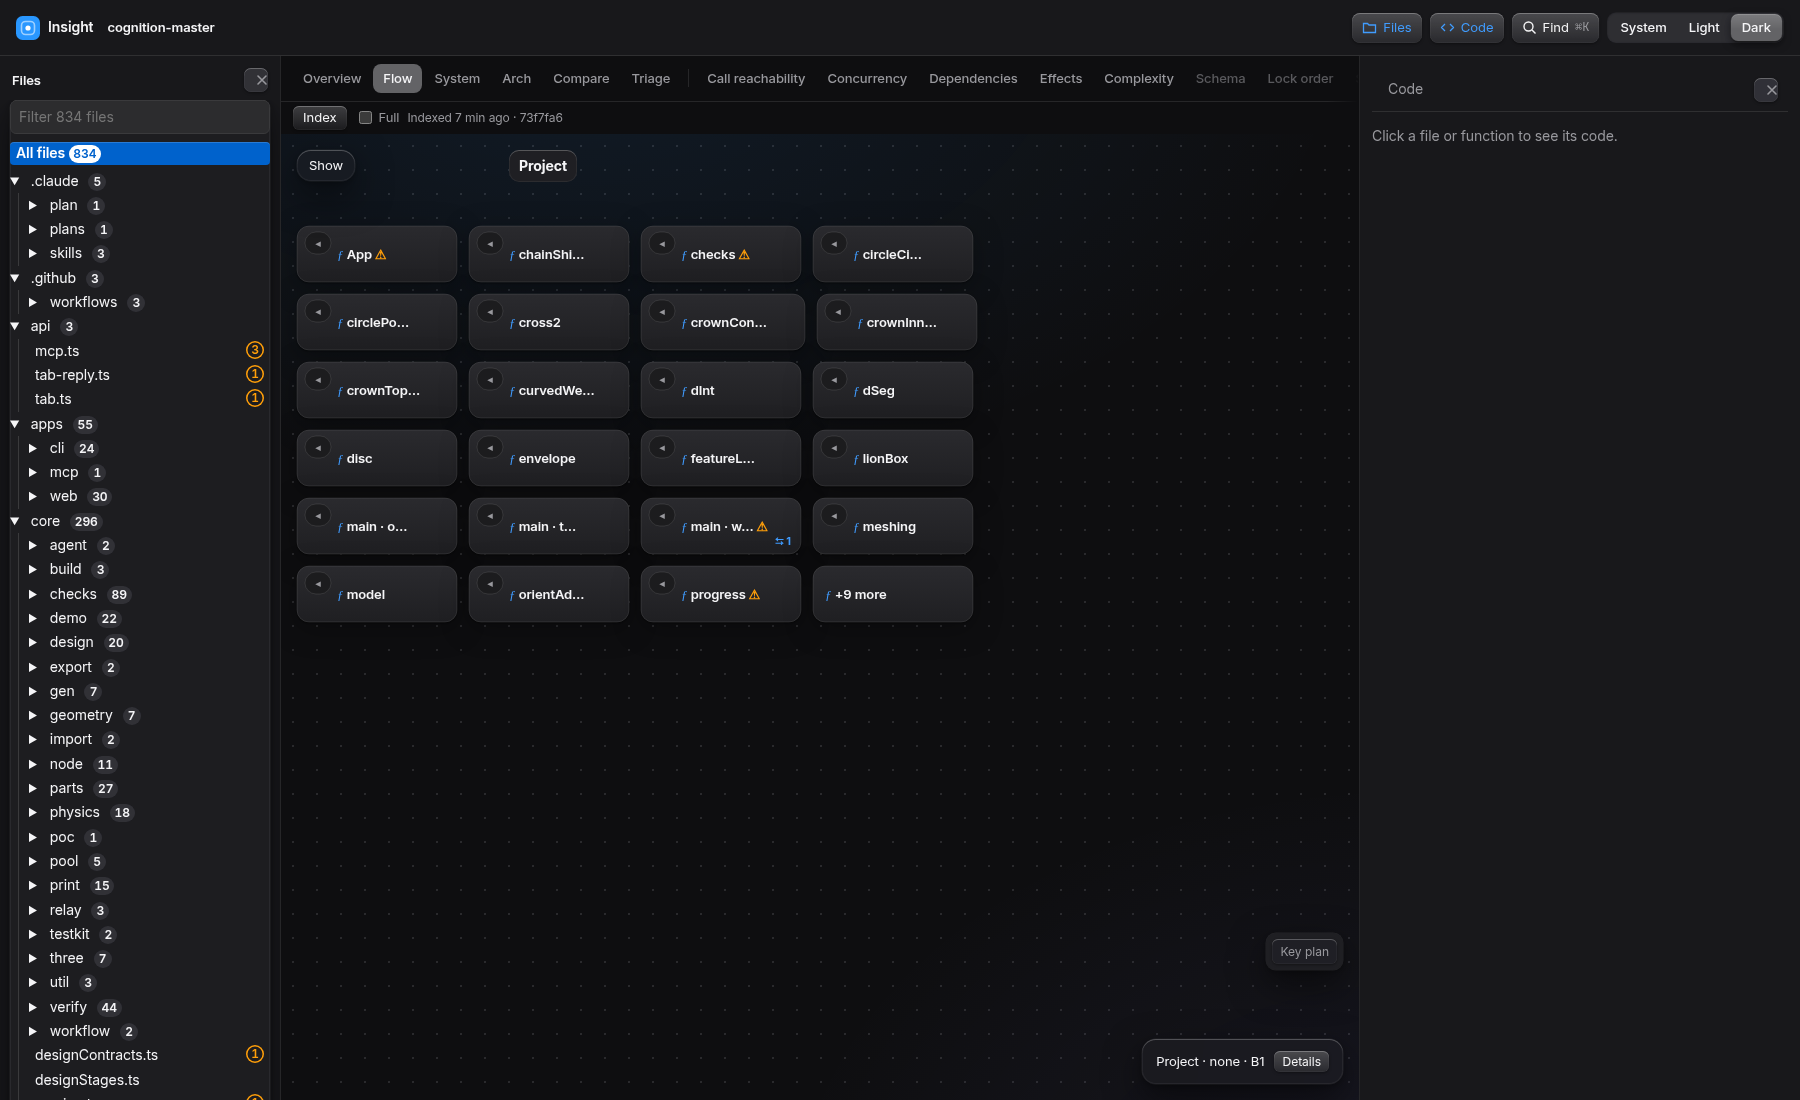
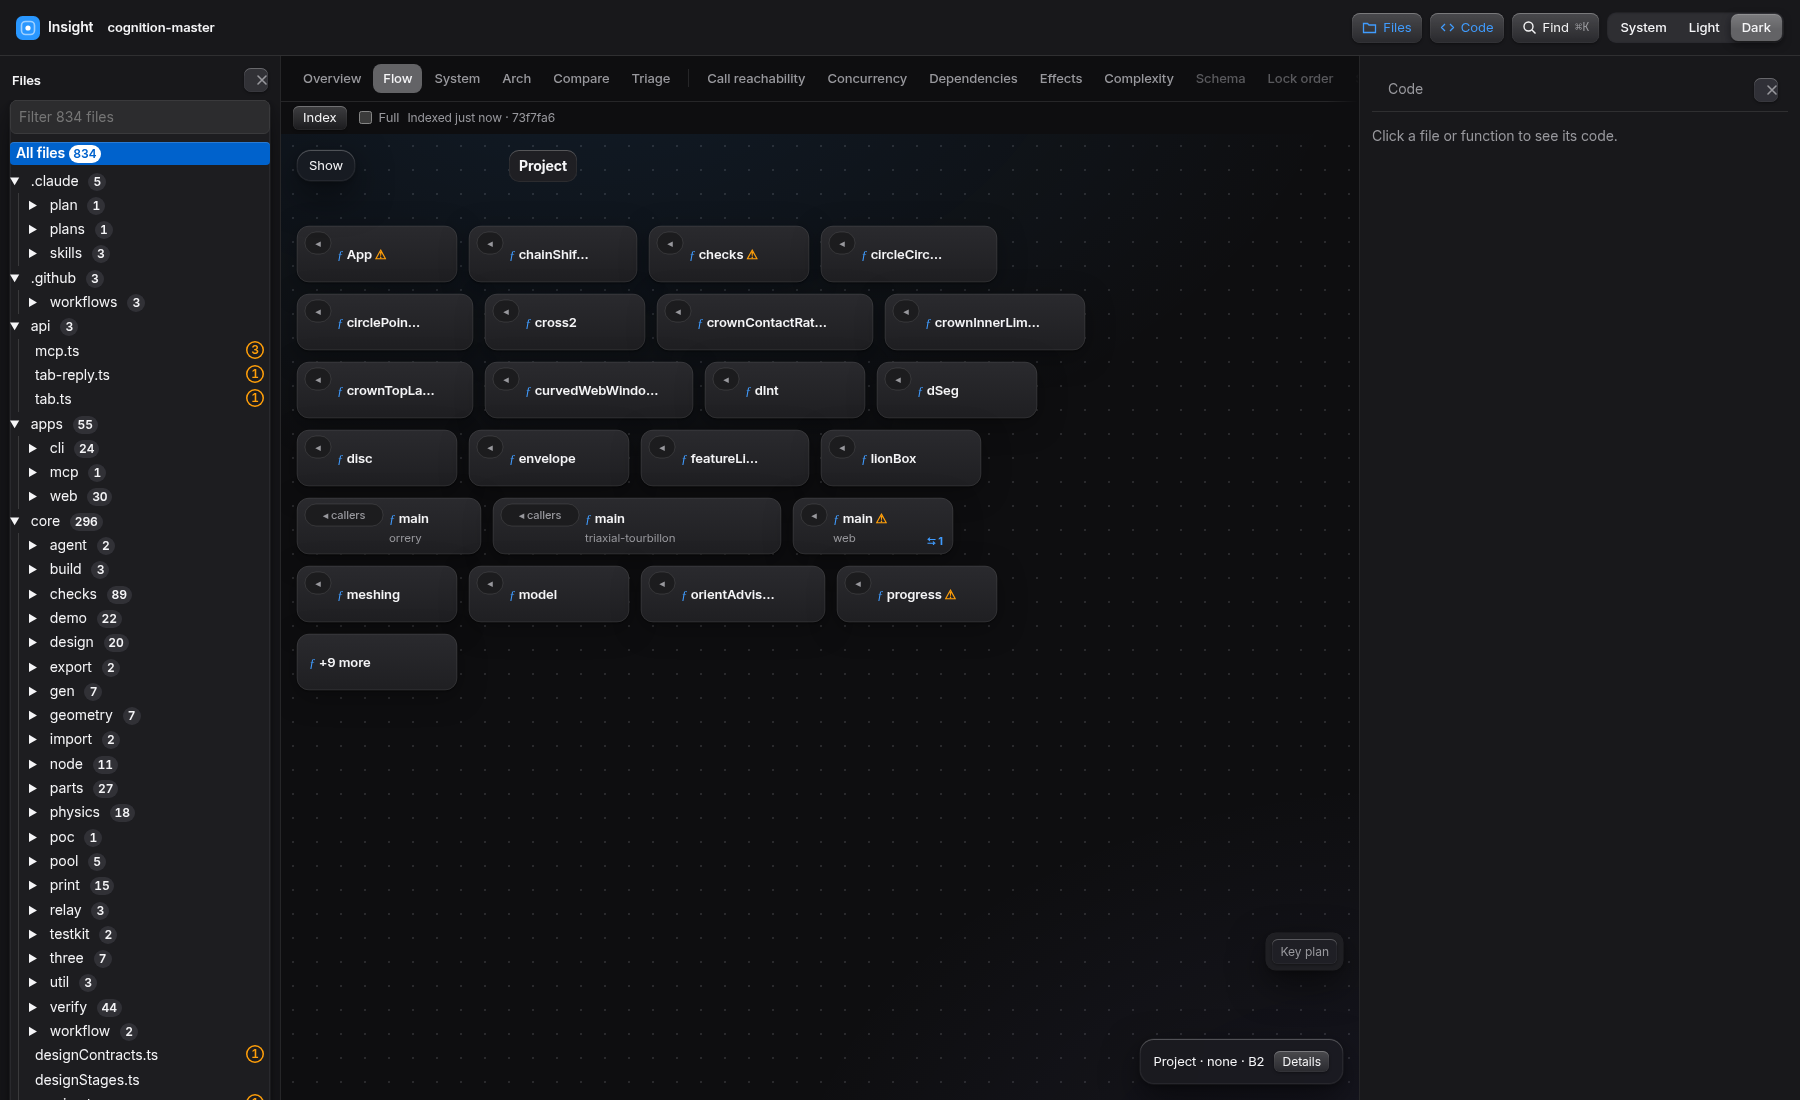
flow: same-name cards show their file stem on a second line; more-card by kind
- A card whose name another card shares draws the bare name on its
  first line and the file stem (main / web) on a muted second line
  (.zm-card-sub), instead of an ellipsised "main · web" name. The
  Callers button's label keeps the full shown name.
- cardWidth reserves the Callers button (+52 px) and sizes a card by
  its shown name.
- The "+N more" card is found by kind, not by the #more id suffix, so
  a function named more opens.
- The self-sync tooltip says "between threads it reaches".
- docs/zoom-map.md: the unguarded badge marks the cards that hold the
  write, and the stem line is described.
- Remove a stale zoom/elk.ts reference and an unused SceneLayout import.
- Tests: N2 test renamed to the site-based behaviour; two self-sync
  edges merge on one card; an unguarded write outside the scope badges
  no card; card stem line and more-card kind; cardWidth room.

diff --git a/apps/web/src/components/zoom/ZoomMap.tsx b/apps/web/src/components/zoom/ZoomMap.tsx
@@ -7,7 +7,7 @@
 import { useEffect, useId, useLayoutEffect, useMemo, useRef, useState, type KeyboardEvent as KeyEvent, type PointerEvent as PointerEv, type ReactNode } from "react";
 import { select } from "d3-selection";
 import { zoom, zoomIdentity, type D3ZoomEvent, type ZoomBehavior, type ZoomTransform } from "d3-zoom";
-import { CHART_FIT_MAX_K, CHART_HEAD, MORE_SUFFIX, ZOOM_SIZE, fitCamera, fitChartCamera, visibleWorld, type Camera, type FlowNode, type FlowSpan, type FunctionFlow, type PlacedItem, type Rect } from "@insight/flow";
+import { CHART_FIT_MAX_K, CHART_HEAD, ZOOM_SIZE, fitCamera, fitChartCamera, visibleWorld, type Camera, type FlowNode, type FlowSpan, type FunctionFlow, type PlacedItem, type Rect } from "@insight/flow";
 import { isPostStep, nameOfId, runtimeLabel, stepRuntime } from "../../flowTargets";
 import { hrefView } from "../../router";
 import { CHART_MIN_PX } from "../../zoom/chart";
@@ -775,7 +775,7 @@ export function ZoomMap({ id, source, scope, fn, detail, charts, onSelect, onFoc
   /** A click on a "+N more" card shows the rest of its thread's cards in place. Undefined when `nodeId` is another box. */
   const expandMore = (nodeId: string): boolean => {
     const b = buildRef.current;
-    if (!b || !source.expandMore || !nodeId.endsWith(MORE_SUFFIX)) return false;
+    if (!b || !source.expandMore || !isMoreCard(b.node(nodeId))) return false;
     void source.expandMore(b, nodeId).then(() => show(b.focus, { animate: false, writeUrl: true }));
     return true;
   };
@@ -816,7 +816,7 @@ export function ZoomMap({ id, source, scope, fn, detail, charts, onSelect, onFoc
   const boxDoubleClick = (nodeId: string) => {
     const b = buildRef.current;
     // A "+N more" card's clicks already showed the rest of its cards.
-    if (!b || nodeId.endsWith(MORE_SUFFIX) || touchPointerRef.current) return;
+    if (!b || isMoreCard(b.node(nodeId)) || touchPointerRef.current) return;
     stageRef.current?.focus({ preventScroll: true });
     const focus = source.focusOf?.(b, nodeId) ?? nodeId;
     const action = boxAction("dblclick", { hasChart: b.node(nodeId)?.chart !== undefined, open: anchoredTo(expRef.current, nodeId) !== undefined });
@@ -1966,14 +1966,17 @@ export function BoxShape({
 }) {
   const { rect } = item;
   // The function's display name on the map (the full name stays in the tooltip). A card whose name another card shares
-  // shows its file's stem after it (see unrootedScene), so the two read apart.
-  const shown = node.shownName ?? displayName(node.label, node.ref);
+  // shows its file's stem on a second line under the name (see unrootedScene), so the two read apart. `shown` is the full
+  // name with that stem, for the Callers button's label.
+  const base = displayName(node.label, node.ref);
+  const shown = node.shownName ?? base;
+  const subTag = node.shownName !== undefined && node.shownName.startsWith(`${base} · `) ? node.shownName.slice(base.length + 3) : undefined;
   // A thread box carries a badge when its code writes unguarded shared state (see scene.ts).
   const unguarded = node.unguarded !== undefined && node.unguarded.length > 0;
   const unguardedTitle = unguarded ? ` · ⚠ unguarded shared state: ${node.unguarded?.join(", ")}` : "";
   // A card whose function shares a lock or channel with threads it starts carries a self-sync badge (see unrootedScene).
   const selfSync = node.syncSelf !== undefined && node.syncSelf.length > 0 ? node.syncSelf : undefined;
-  const selfSyncTitle = selfSync ? ` · Shares ${selfSync.map((r) => `${r.kind} ${r.name}`).join(", ")} with threads it starts` : "";
+  const selfSyncTitle = selfSync ? ` · Shares ${selfSync.map((r) => `${r.kind} ${r.name}`).join(", ")} between threads it reaches` : "";
   // The mid tier's name is 10-13 px on screen (the zoom's inverse scales it): its characters are measured at that size.
   const fontPx = small ? Math.min(13, Math.max(10, Math.round(rect.h * k * 0.42))) : 0;
   const label = bare ? null : small ? fitLabel(shown, labelChars(rect.w * k, fontPx * 0.6, 10)) : fitLabel(shown, labelChars(rect.w * k));
@@ -2011,11 +2014,14 @@ export function BoxShape({
     // The name's font is 13 px on screen until 11 world units grow past it (above about 1.2×), and a character takes about
     // 0.6 of the font: the fit follows the font as it grows with the zoom.
     const charPx = Math.max(8, 6.8 * k);
-    // The name starts 12 units in (after the chip, when there is one) and keeps 12 clear of the card's right edge.
-    const nameIn = (room: number) => fitLabel(shown, Math.max(1, labelChars((rect.w - room) * k, charPx, 20) - 2));
+    // The name starts 12 units in (after the chip, when there is one) and keeps 12 clear of the card's right edge. A card
+    // with a stem line draws the bare name on its first line, and the stem on a second line under it, at the same x.
+    const nameIn = (room: number) => fitLabel(base, Math.max(1, labelChars((rect.w - room) * k, charPx, 20) - 2));
     const fullName = nameIn(showCallers ? CALLERS_BTN_W + 26 : 0);
-    const compactCallers = showCallers && (fullName !== shown || k < FULL_K);
+    const compactCallers = showCallers && (fullName !== base || k < FULL_K);
     const name = compactCallers ? nameIn(CALLERS_COMPACT_W + 26) : fullName;
+    const textX = rect.x + 12 + (showCallers ? (compactCallers ? CALLERS_COMPACT_W : CALLERS_BTN_W) - 4 + 6 : 0);
+    const stem = subTag !== undefined ? fitLabel(subTag, Math.max(1, labelChars((rect.x + rect.w - 12 - textX) * k, charPx * 0.9, 20))) : null;
     return (
       <g className={`zm-box zm-${node.kind} zm-card ${lineClass(line)}${holdsChart ? " zm-has-chart" : ""}${chartOpen ? " expanded" : ""}${unguarded ? " zm-unguarded" : ""}`} data-sx={rect.x} data-fid={item.id} onClick={() => onOpen(item.id)} onDoubleClick={onDoubleOpen ? () => onDoubleOpen(item.id) : undefined}>
         <title>{`${node.detail !== undefined ? `${node.label} (${node.detail})` : node.title || node.label}${unguardedTitle}${selfSyncTitle}`}</title>
@@ -2029,9 +2035,14 @@ export function BoxShape({
             </text>
           )}
           {name !== null && (
-            <text x={rect.x + 12 + (showCallers ? (compactCallers ? CALLERS_COMPACT_W : CALLERS_BTN_W) - 4 + 6 : 0)} y={rect.y + rect.h / 2} dominantBaseline="central" className="zm-label">
+            <text x={textX} y={stem !== null ? rect.y + rect.h / 2 - 8 : rect.y + rect.h / 2} dominantBaseline="central" className="zm-label">
               <tspan className="zm-card-glyph">ƒ</tspan>{" "}{name}
               {unguarded && <tspan className="zm-warn">{" ⚠"}</tspan>}
+            </text>
+          )}
+          {stem !== null && (
+            <text x={textX} y={rect.y + rect.h / 2 + 12} dominantBaseline="central" className="zm-card-sub">
+              {stem}
             </text>
           )}
         </g>
@@ -2064,6 +2075,11 @@ export function BoxShape({
       )}
     </g>
   );
+}
+
+/** Whether a map node is the grid's "+N more" card. Its id is the project's plus `#more`, but a function's id can end so too. */
+export function isMoreCard(node: { kind: string } | undefined): boolean {
+  return node?.kind === "more";
 }
 
 /**

diff --git a/apps/web/test/zoomFrames.test.tsx b/apps/web/test/zoomFrames.test.tsx
@@ -1,6 +1,6 @@
 import { describe, expect, it } from "vitest";
 import { renderToStaticMarkup } from "react-dom/server";
-import { BoxShape } from "../src/components/zoom/ZoomMap";
+import { BoxShape, isMoreCard } from "../src/components/zoom/ZoomMap";
 import type { MapNode } from "../src/zoom/source";
 import type { PlacedItem } from "@insight/flow";
 
@@ -72,7 +72,7 @@ describe("ZoomMap boxes", () => {
     );
     expect(html).toContain("zm-sync-self");
     expect(html).toContain("⇆ 1</text>");
-    expect(html).toContain("<title>main · Shares lock a with threads it starts</title>");
+    expect(html).toContain("<title>main · Shares lock a between threads it reaches</title>");
   });
 
   it("counts every self-sync resource and lists each by kind and name in the tooltip", () => {
@@ -88,7 +88,7 @@ describe("ZoomMap boxes", () => {
       />,
     );
     expect(html).toContain("⇆ 2</text>");
-    expect(html).toContain("Shares lock a, channel q with threads it starts");
+    expect(html).toContain("Shares lock a, channel q between threads it reaches");
   });
 
   it("draws no self-sync badge on a card without one", () => {
@@ -96,7 +96,7 @@ describe("ZoomMap boxes", () => {
       <BoxShape item={box("main", 0, 0, 300, 60)} node={node("main", "function", "main", { ref: "src/m.ts#main" })} line="thread" k={1} onOpen={() => undefined} chartOpen={false} card />,
     );
     expect(html).not.toContain("zm-sync-self");
-    expect(html).not.toContain("threads it starts");
+    expect(html).not.toContain("threads it reaches");
   });
 
   it("N2: a card carrying a thread's unguarded names draws the warning badge and its tooltip", () => {
@@ -115,5 +115,30 @@ describe("ZoomMap boxes", () => {
     expect(html).toContain("zm-warn");
     expect(html).toContain("unguarded shared state: counter");
     expect(html).not.toContain("zm-sync-self");
+  });
+});
+
+describe("the flat grid's card names", () => {
+  const card = (n: MapNode) => (
+    <BoxShape item={box(n.id, 0, 0, 240, 56)} node={n} line="thread" k={1} onOpen={() => undefined} chartOpen={false} card />
+  );
+
+  it("draws a same-name card's name alone, with its file stem on a second line", () => {
+    const html = svg(card(node("main", "function", "main", { ref: "apps/web/main.tsx#(module)", shownName: "main · web" })));
+    expect(html).toContain('class="zm-card-sub"');
+    expect(html).toContain(">web</text>");
+    expect(html).toContain("ƒ</tspan> main</text>");
+    expect(html).not.toContain("main · web</text>");
+  });
+
+  it("draws no stem line on a card whose name is unique", () => {
+    const html = svg(card(node("solo", "function", "solo", { ref: "src/solo.ts#solo" })));
+    expect(html).not.toContain("zm-card-sub");
+  });
+
+  it("opens the more card by its kind, not its id: a function named more is not one", () => {
+    expect(isMoreCard({ kind: "more" })).toBe(true);
+    expect(isMoreCard({ kind: "function" })).toBe(false);
+    expect(isMoreCard(undefined)).toBe(false);
   });
 });

diff --git a/packages/core/flow/test/unrooted.test.ts b/packages/core/flow/test/unrooted.test.ts
@@ -238,6 +238,27 @@ describe("sync edges in the flat grid", () => {
     expect(card?.syncSelf).toEqual([{ name: "a", kind: "lock" }]);
   });
 
+  it("(i) two self-sync edges on one card merge: a resource both edges share is listed once on the card", () => {
+    // main takes lock a and spawns two threads that take a too: two sync edges join main to itself, and both carry a.
+    const nodes = [
+      fnNode("src/m.ts", "main", 0),
+      lockOf("src/m.ts", 1, "src/m.ts#main", "a"),
+      spawnNode("src/m.ts", 3, "src/m.ts#main"),
+      spawnNode("src/m.ts", 5, "src/m.ts#main"),
+      fnNode("src/w.ts", "w1", 0),
+      lockOf("src/w.ts", 1, "src/w.ts#w1", "a"),
+      fnNode("src/w.ts", "w2", 10),
+      lockOf("src/w.ts", 11, "src/w.ts#w2", "a"),
+    ];
+    const m = execModel(nodes, [spawnEdge("src/m.ts", 3, "src/w.ts#w1"), spawnEdge("src/m.ts", 5, "src/w.ts#w2")], "src");
+    // w1 and w2 also share a with each other, so three sync edges end up joining main to itself, all carrying a.
+    const flat = unrootedScene(buildExecScene(m), m);
+    expect(refsOf(flat)).toEqual(["src/m.ts#main"]);
+    expect(syncOf(flat)).toEqual([]);
+    const card = [...flat.nodes.values()].find((n) => n.kind === "function");
+    expect(card?.syncSelf).toEqual([{ name: "a", kind: "lock" }]);
+  });
+
   it("(i) a card with no self-sync edge carries no syncSelf", () => {
     const nodes = [
       fnNode("src/m.ts", "main", 0),
@@ -301,7 +322,7 @@ describe("sync edges in the flat grid", () => {
 });
 
 describe("unguarded threads in the flat grid", () => {
-  it("N2: a card whose reach holds a function of a thread with unguarded shared state carries that thread's names; an unrelated card does not", () => {
+  it("N2: the card nearest an unguarded write carries that write's names, even when the write sits in a thread it only reaches; an unrelated card does not", () => {
     const m = model({
       functions: [fn("main", 1), fn("lone", 2), fn("w", 3, { unguardedWrites: ["counter"] })],
       threads: [
@@ -347,6 +368,19 @@ describe("unguarded threads in the flat grid", () => {
     const card = (ref: string) => [...flat.nodes.values()].find((n) => n.kind === "function" && n.ref === ref);
     expect(card("main")?.unguarded).toEqual(["counter"]);
     expect(card("lone")?.unguarded).toBeUndefined();
+  });
+});
+
+describe("unguarded writes outside the scope", () => {
+  it("an unguarded write in a function outside the scope badges no card", () => {
+    // `out` is not in scope, so the thread reaches its write but no card holds it: no card is badged.
+    const m = model({
+      functions: [fn("main", 1), fn("out", 2, { inScope: false, unguardedWrites: ["counter"] })],
+      threads: [thread("main", ["main"], ["main", "out"])],
+    });
+    const flat = unrootedScene(buildExecScene(m), m);
+    expect(refsOf(flat)).toEqual(["main"]);
+    expect([...flat.nodes.values()].some((n) => n.unguarded !== undefined)).toBe(false);
   });
 });
 

diff --git a/packages/core/flow/src/roots-grid.ts b/packages/core/flow/src/roots-grid.ts
@@ -2,6 +2,7 @@
 // leaves room the map's own controls take (the title chip and the key plan at the bottom right, the Show button at the top
 // left), so no card sits under them at the default fit. Pure, so it is unit tested.
 import type { Scene, SceneLayout } from "./scene.js";
+import { displayName } from "./names.js";
 import type { ContainerLayout, Size, Slot } from "./zoom-layout.js";
 
 /** A card's height: one name line and one file line. */
@@ -12,6 +13,8 @@ export const CARD_MAX_W = 320;
 /** The width of a monospace character at the card's name size (12 px), and the card's inner padding. */
 const CHAR_W = 8;
 const CARD_PAD_W = 28;
+/** The room a card keeps for its Callers button at its left (the button is about 78 px wide, and the name starts past it). */
+const CARD_CALLERS_W = 52;
 /** The gap between cards, both ways. */
 export const CARD_GAP = 12;
 /** The grid's width: it wraps here, so the grid fits a 1600 px window's map at 1x. */
@@ -21,9 +24,9 @@ export const CARD_PAD_TOP = 64;
 export const CARD_PAD_BOTTOM = 170;
 export const CARD_PAD_SIDE = 16;
 
-/** A card's width for a name: the name's width, between CARD_MIN_W and CARD_MAX_W. */
+/** A card's width for a name: the name's width plus the Callers button's room, between CARD_MIN_W and CARD_MAX_W. */
 export function cardWidth(label: string): number {
-  const w = Math.ceil(label.length * CHAR_W) + CARD_PAD_W;
+  const w = Math.ceil(label.length * CHAR_W) + CARD_PAD_W + CARD_CALLERS_W;
   return Math.min(CARD_MAX_W, Math.max(CARD_MIN_W, w));
 }
 
@@ -50,7 +53,7 @@ export function gridRootsLayout(scene: Scene, footprint?: Footprint): SceneLayou
   let width = 0;
   for (const id of kids) {
     const n = scene.nodes.get(id);
-    const w = cardWidth(n?.label ?? id);
+    const w = cardWidth(n === undefined ? id : (n.shownName ?? displayName(n.label, n.ref)));
     const room = footprint?.get(id);
     const left = room?.left ?? 0;
     const outerW = left + w + (room?.w ?? 0);

diff --git a/packages/core/flow/test/roots-grid.test.ts b/packages/core/flow/test/roots-grid.test.ts
@@ -11,6 +11,10 @@ function flat(labels: string[]): Scene {
 }
 
 describe("cardWidth", () => {
+  it("leaves room for the Callers button, 52 px beyond the name", () => {
+    expect(cardWidth("settleChains")).toBe("settleChains".length * 8 + 28 + 52);
+  });
+
   it("fits the name between the minimum and the maximum", () => {
     expect(cardWidth("ab")).toBe(CARD_MIN_W);
     expect(cardWidth("a".repeat(60))).toBe(CARD_MAX_W);
@@ -18,6 +22,17 @@ describe("cardWidth", () => {
     expect(mid).toBeGreaterThanOrEqual(CARD_MIN_W);
     expect(mid).toBeLessThanOrEqual(CARD_MAX_W);
     expect(mid).toBeGreaterThanOrEqual("settleChains".length * 7.2 + 26);
+  });
+});
+
+describe("gridRootsLayout: the shown name sizes a card", () => {
+  it("a card with a stem line is as wide as its shown name, which carries the stem", () => {
+    const sc = flat(["main"]);
+    const n = sc.nodes.get("f0") as SceneNode;
+    sc.nodes.set("f0", { ...n, shownName: "main · triaxial-tourbillon" });
+    const slot = gridRootsLayout(sc).containers[sc.root]?.slots[0];
+    expect(slot?.w).toBe(cardWidth("main · triaxial-tourbillon"));
+    expect(slot?.w).toBeGreaterThan(cardWidth("main"));
   });
 });
 

diff --git a/apps/web/src/states/elkClient.ts b/apps/web/src/states/elkClient.ts
@@ -1,5 +1,5 @@
-// The browser's solver for state diagrams: elkjs in its own worker, like zoom/elk.ts but with its own instance, so a
-// state diagram never queues behind the zoom map. Tests use the bundled solver instead (jsdom has no worker).
+// The browser's solver for state diagrams: elkjs in its own worker, with its own instance, so a
+// state diagram never queues behind other layouts. Tests use the bundled solver instead (jsdom has no worker).
 // Jobs run one at a time and each one's timeout starts when it is sent to the worker. A timeout or a worker failure
 // terminates the worker, rejects only the job that was running, and resubmits the still-wanted queued jobs to a fresh
 // worker. An aborted job rejects with an AbortError; if nothing wanted is left the worker is terminated.

diff --git a/packages/core/flow/src/scene.ts b/packages/core/flow/src/scene.ts
@@ -57,7 +57,7 @@ export interface SceneNode {
    */
   unguarded?: string[];
   /**
-   * A card (see unrooted.ts) whose function shares these sync resources with threads it starts: a sync edge whose two ends
+   * A card (see unrooted.ts) whose function shares these sync resources with threads it reaches: a sync edge whose two ends
    * both land on this card, which the renderer cannot draw as an edge, so the resources are kept here. The map draws the
    * `⇆ N` badge on the card.
    */

diff --git a/apps/web/src/staticApi.ts b/apps/web/src/staticApi.ts
@@ -20,7 +20,6 @@ import type {
   Project,
   Review,
   ReviewStale,
-  SceneLayout,
   ScopeFlow,
   ScopeLensRow,
   ScopeLenses,

diff --git a/docs/zoom-map.md b/docs/zoom-map.md
@@ -60,8 +60,10 @@ The Flow tab draws the execution canvas of the scope as one flat grid of cards (
   joined by a dotted `sync` edge; a channel joins its sender's card to its receiver's card with a solid one. A sync site
   whose two ends land on one card (a function that shares a lock with a thread it starts, say) draws no edge: the card
   carries a `⇆ N` self-sync badge instead, with N the number of shared resources. Its tooltip names them, such as
-  "Shares lock a with threads it starts". A card whose reach holds a function of a thread with unguarded shared state
-  carries that thread's `⚠` badge, since the thread's own box is not drawn (`unguardedScene` in `unrooted.ts`).
+  "Shares lock a between threads it reaches". A card that holds an unguarded write of shared state (it is the card nearest
+  the function that makes the write, by `cardOf`) carries a `⚠` badge and names the variables in its tooltip; a card that
+  only reaches that write does not (`unrootedScene` in `unrooted.ts`). A card whose name another card shares draws its
+  file's stem on a second line under the name (the `zm-card-sub` line, such as "web" under "main"), so the two read apart.
 - Labels fit their box's on-screen width and drop out when too small (`apps/web/src/zoom/lod.ts`). A gesture or Enter
   over a gap opens the nearest box within 60 px. Only a click, Enter or a link opens a box; a gesture only moves the camera.
 - Layouts: the client does not read a saved execution layout. `ExecStore` lays the flat grid out in the browser
